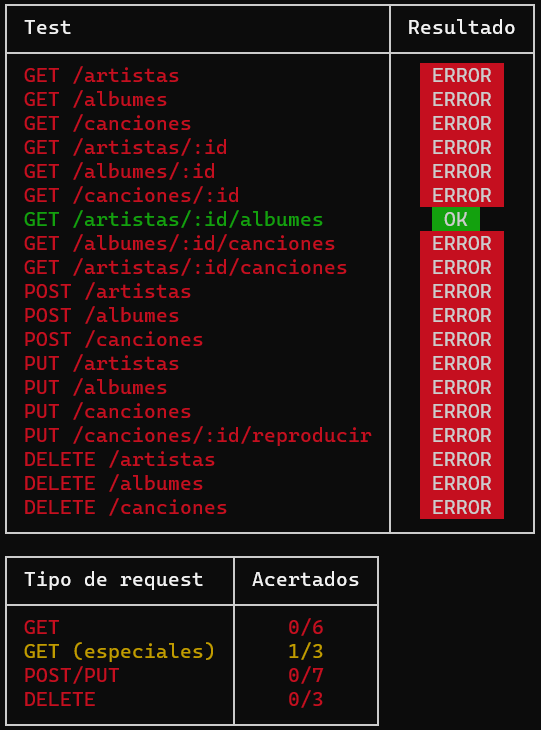
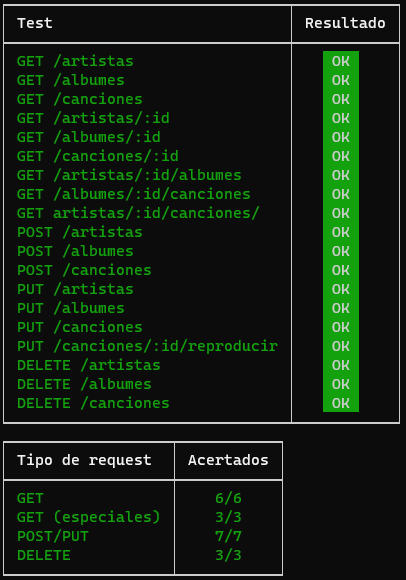
feat: Subo algunas notas de reentregas y ABE1

Changed region(s): [[0.0, 0.0, 1.0, 1.0]]

diff --git a/notas-spoticfy/GUERSON-WU.md b/notas-spoticfy/GUERSON-WU.md
@@ -4,6 +4,4 @@
 
 ![Tests](GUERSON-WU.png)
 
-Nota: **Reentrega**
-
-Comentario/Ayuda: Tienen errores muy pequeños como nombres de tablas o similares. PRUEBEN el código antes de reentregar por favor.
+Nota: **9** (-1 por la reentrega)

diff --git a/notas-spoticfy/CHEJTMAN-CHIPRUT-FAIWUSIEWIEZ.md b/notas-spoticfy/CHEJTMAN-CHIPRUT-FAIWUSIEWIEZ.md
@@ -1,0 +1,7 @@
+# Corrección
+
+## CHEJTMAN-CHIPRUT-FAIWUSIEWIEZ
+
+![Tests](CHEJTMAN-CHIPRUT-FAIWUSIEWIEZ.png)
+
+Nota: **9.5**

diff --git a/notas-spoticfy/CITERA-VITACCO-MASCARDI.md b/notas-spoticfy/CITERA-VITACCO-MASCARDI.md
@@ -4,4 +4,4 @@
 
 ![Tests](CITERA-VITACCO-MASCARDI.png)
 
-Nota: **Reentrega**
+Nota: **9** (-1 por reentrega)

diff --git a/notas-spoticfy/EDELBERG-STOCK-CAMA.md b/notas-spoticfy/EDELBERG-STOCK-CAMA.md
@@ -4,4 +4,4 @@
 
 ![Tests](EDELBERG-STOCK-CAMA.png)
 
-Nota: **Reentrega**
+Nota: **9** (-1 por la reentrega)

diff --git a/notas-spoticfy/ROZENBERG-PARRONDO.md b/notas-spoticfy/ROZENBERG-PARRONDO.md
@@ -1,0 +1,7 @@
+# Corrección
+
+## ROZENBERG-PARRONDO
+
+![Tests](ROZENBERG-PARRONDO.png)
+
+Nota: **9**
